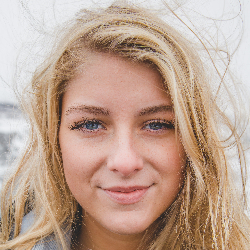
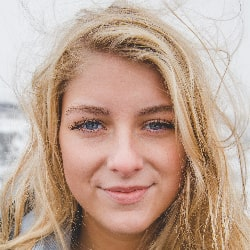
Compressed hero, gallery, and testimonials images

diff --git a/src/js/Testimonials.jsx b/src/js/Testimonials.jsx
@@ -55,73 +55,73 @@ export default function Testimonials(props) {
                 <h2 className="testimonials-h2">Hear from Customers</h2>
                 <div className="testimonials-testimonials" ref={testimonialsRef}>
                     <div className="testimonials-testimonial">
-                        <img className="testimonials-testimonial-pp" src={img1} alt="Profile Picture" width="250" height="250" />
+                        <img className="testimonials-testimonial-pp" src={img1} alt="Profile Picture" width="250" height="250" loading="lazy" />
                         <h4 className="testimonials-testimonial-name">Sarah</h4>
                         <h3 className="testimonials-testimonial-title">&ldquo;Amazing Experience&ldquo;</h3>
                         <p className="testimonials-testimonial-comment">&ldquo;I had an amazing experience at this hair salon! The stylists were professional and friendly, and they listened to my requests. I walked out feeling confident and beautiful.&rdquo;</p>
                     </div>
                     <div className="testimonials-testimonial">
-                        <img className="testimonials-testimonial-pp" src={img2} alt="Profile Picture" width="250" height="250" />
+                        <img className="testimonials-testimonial-pp" src={img2} alt="Profile Picture" width="250" height="250" loading="lazy" />
                         <h4 className="testimonials-testimonial-name">Jessica</h4>
                         <h3 className="testimonials-testimonial-title">&ldquo;Love My Hair&ldquo;</h3>
                         <p className="testimonials-testimonial-comment">&ldquo;I absolutely love my new haircut! The stylist was able to perfectly capture the look I wanted. I've received so many compliments on my hair since I left the salon.&rdquo;</p>
                     </div>
                     <div className="testimonials-testimonial">
-                        <img className="testimonials-testimonial-pp" src={img3} alt="Profile Picture" width="250" height="250" />
+                        <img className="testimonials-testimonial-pp" src={img3} alt="Profile Picture" width="250" height="250" loading="lazy" />
                         <h4 className="testimonials-testimonial-name">Emily</h4>
                         <h3 className="testimonials-testimonial-title">&ldquo;Best Hair Salon&ldquo;</h3>
                         <p className="testimonials-testimonial-comment">&ldquo;This is hands down the best hair salon in town! The staff are knowledgeable and skilled, and they always make me feel welcome. I wouldn't go anywhere else.&rdquo;</p>
                     </div>
                     <div className="testimonials-testimonial">
-                        <img className="testimonials-testimonial-pp" src={img4} alt="Profile Picture" width="250" height="250" />
+                        <img className="testimonials-testimonial-pp" src={img4} alt="Profile Picture" width="250" height="250" loading="lazy" />
                         <h4 className="testimonials-testimonial-name">Maria</h4>
                         <h3 className="testimonials-testimonial-title">&ldquo;Perfect Color&ldquo;</h3>
                         <p className="testimonials-testimonial-comment">&ldquo;I came in wanting a drastic change to my hair color, and the stylist delivered! My new hair color is perfect and I couldn't be happier.&rdquo;</p>
                     </div>
                     <div className="testimonials-testimonial">
-                        <img className="testimonials-testimonial-pp" src={img5} alt="Profile Picture" width="250" height="250" />
+                        <img className="testimonials-testimonial-pp" src={img5} alt="Profile Picture" width="250" height="250" loading="lazy" />
                         <h4 className="testimonials-testimonial-name">Chloe</h4>
                         <h3 className="testimonials-testimonial-title">&ldquo;Excellent Service&ldquo;</h3>
                         <p className="testimonials-testimonial-comment">&ldquo;The service at this hair salon is excellent! The staff are friendly and attentive, and they make sure that I'm comfortable throughout my appointment. I highly recommend this salon.&rdquo;</p>
                     </div>
                     <div className="testimonials-testimonial">
-                        <img className="testimonials-testimonial-pp" src={img6} alt="Profile Picture" width="250" height="250" />
+                        <img className="testimonials-testimonial-pp" src={img6} alt="Profile Picture" width="250" height="250" loading="lazy" />
                         <h4 className="testimonials-testimonial-name">Jason</h4>
                         <h3 className="testimonials-testimonial-title">&ldquo;Great Haircut&ldquo;</h3>
                         <p className="testimonials-testimonial-comment">&ldquo;I received a great haircut at this salon! The stylist took the time to listen to what I wanted and provided expert advice. I'll definitely be back.&rdquo;</p>
                     </div>
                     <div className="testimonials-testimonial">
-                        <img className="testimonials-testimonial-pp" src={img7} alt="Profile Picture" width="250" height="250" />
+                        <img className="testimonials-testimonial-pp" src={img7} alt="Profile Picture" width="250" height="250" loading="lazy" />
                         <h4 className="testimonials-testimonial-name">Laura</h4>
                         <h3 className="testimonials-testimonial-title">&ldquo;Beautiful Results&ldquo;</h3>
                         <p className="testimonials-testimonial-comment">&ldquo;The results of my hair appointment were beautiful! The stylist was able to perfectly execute the style I wanted. I felt like a new person when I left the salon.&rdquo;</p>
                     </div>
                     <div className="testimonials-testimonial">
-                        <img className="testimonials-testimonial-pp" src={img8} alt="Profile Picture" width="250" height="250" />
+                        <img className="testimonials-testimonial-pp" src={img8} alt="Profile Picture" width="250" height="250" loading="lazy" />
                         <h4 className="testimonials-testimonial-name">Rachel</h4>
                         <h3 className="testimonials-testimonial-title">&ldquo;Skilled Stylists&ldquo;</h3>
                         <p className="testimonials-testimonial-comment">&ldquo;The stylists at this hair salon are so skilled! They have a great eye for detail and are able to deliver exceptional results every time.&rdquo;</p>
                     </div>
                     <div className="testimonials-testimonial">
-                        <img className="testimonials-testimonial-pp" src={img9} alt="Profile Picture" width="250" height="250" />
+                        <img className="testimonials-testimonial-pp" src={img9} alt="Profile Picture" width="250" height="250" loading="lazy" />
                         <h4 className="testimonials-testimonial-name">Henry</h4>
                         <h3 className="testimonials-testimonial-title">&ldquo;Friendly Atmosphere&ldquo;</h3>
                         <p className="testimonials-testimonial-comment">&ldquo;The atmosphere at this salon is so friendly and welcoming! The staff make me feel like part of the family every time I visit.&rdquo;</p>
                     </div>
                     <div className="testimonials-testimonial">
-                        <img className="testimonials-testimonial-pp" src={img10} alt="Profile Picture" width="250" height="250" />
+                        <img className="testimonials-testimonial-pp" src={img10} alt="Profile Picture" width="250" height="250" loading="lazy" />
                         <h4 className="testimonials-testimonial-name">Ava</h4>
                         <h3 className="testimonials-testimonial-title">&ldquo;Top Notch Service&ldquo;</h3>
                         <p className="testimonials-testimonial-comment">&ldquo;The service at this salon is top notch! The stylists take the time to get to know their clients and provide personalized recommendations. I always leave feeling pampered and happy.&rdquo;</p>
                     </div>
                     <div className="testimonials-testimonial">
-                        <img className="testimonials-testimonial-pp" src={img11} alt="Profile Picture" width="250" height="250" />
+                        <img className="testimonials-testimonial-pp" src={img11} alt="Profile Picture" width="250" height="250" loading="lazy" />
                         <h4 className="testimonials-testimonial-name">Olivia</h4>
                         <h3 className="testimonials-testimonial-title">&ldquo;Beautiful Updo&ldquo;</h3>
                         <p className="testimonials-testimonial-comment">&ldquo;The stylist at this salon created a beautiful updo for my special event! I received so many compliments on my hair that night. Thank you!&rdquo;</p>
                     </div>
                     <div className="testimonials-testimonial">
-                        <img className="testimonials-testimonial-pp" src={img12} alt="Profile Picture" width="250" height="250" />
+                        <img className="testimonials-testimonial-pp" src={img12} alt="Profile Picture" width="250" height="250" loading="lazy" />
                         <h4 className="testimonials-testimonial-name">Michael</h4>
                         <h3 className="testimonials-testimonial-title">&ldquo;Highly Recommend&ldquo;</h3>
                         <p className="testimonials-testimonial-comment">&ldquo;I highly recommend this hair salon to anyone looking for exceptional service and results! The staff go above and beyond to ensure that their clients are happy.&rdquo;</p>
